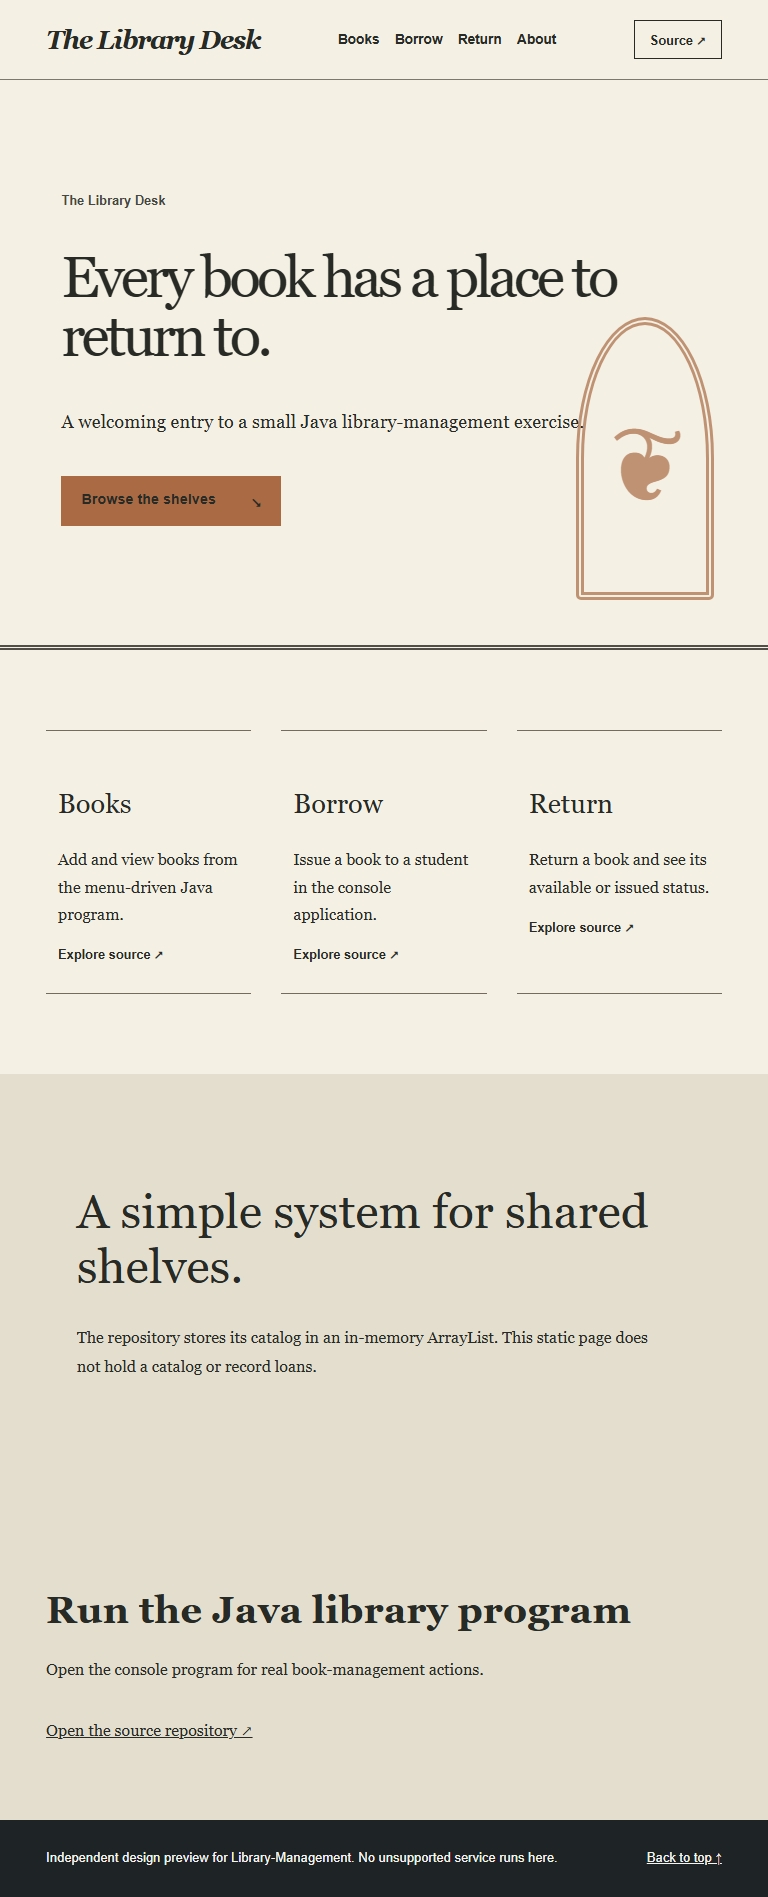
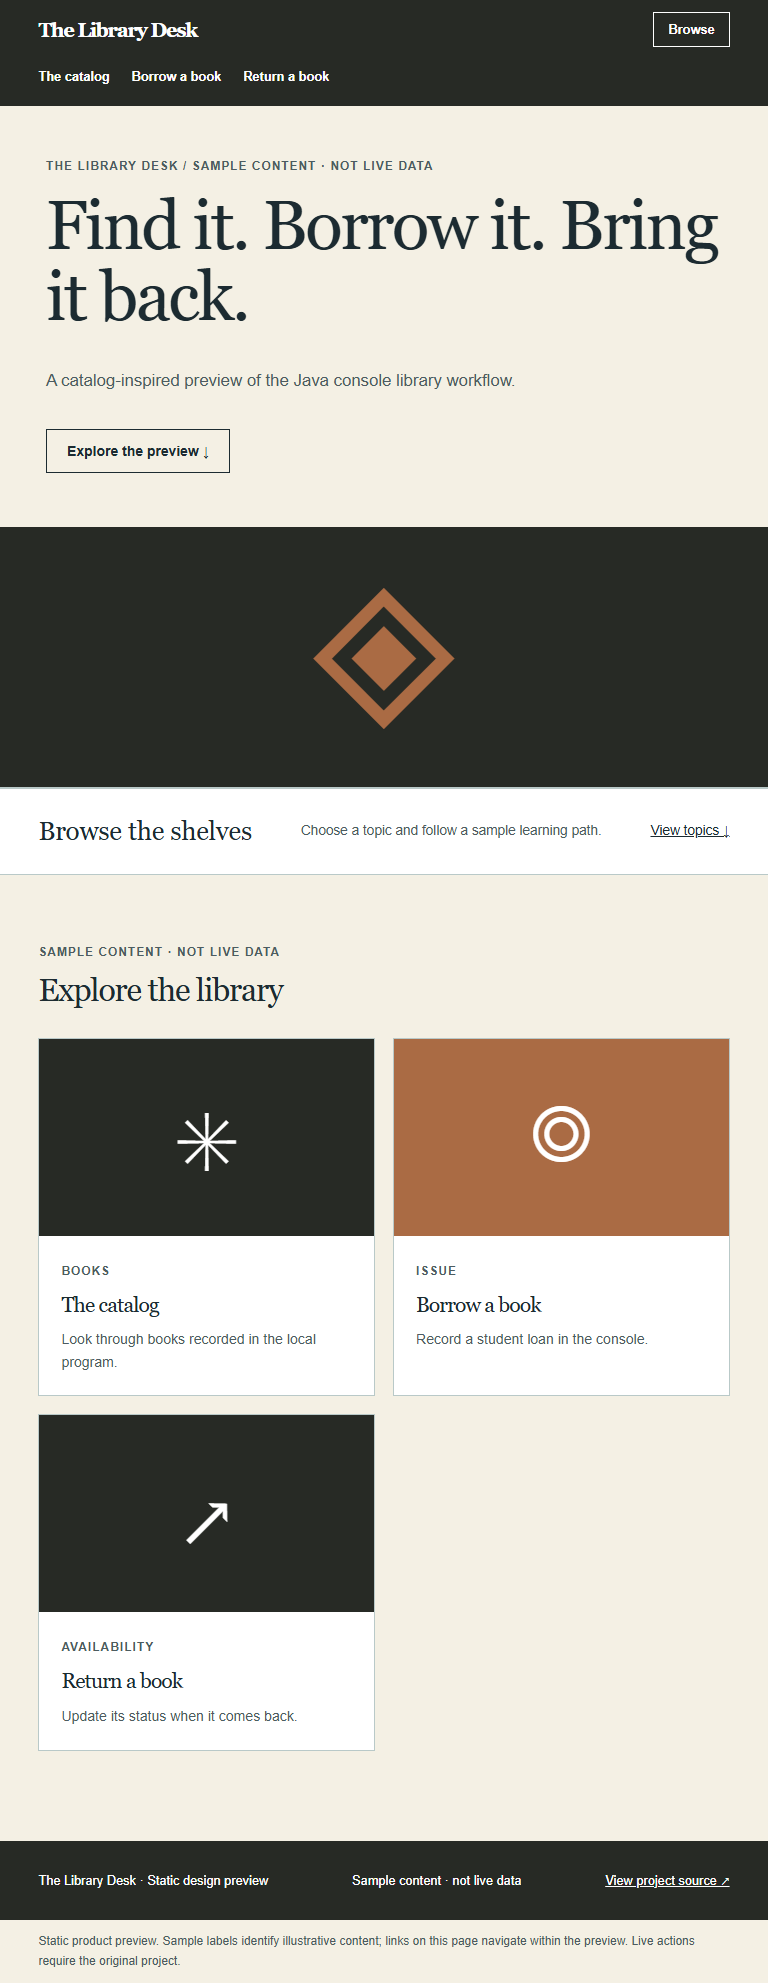
feat: show product-first static homepage preview

diff --git a/showcase-design/product.css b/showcase-design/product.css
@@ -1,0 +1,27 @@
+:root{--p-bg:#f4f0e4;--p-ink:#1c2b31;--p-accent:#aa6b44;--p-card:#ffffff;--p-muted:#4c5c61;--p-border:#b9c9c8;--p-head:#272a25;--p-head-ink:#ffffff;}
+
+/* Product-first preview. Preserve the original design's palette and assets. */
+body.product-page{background:var(--p-bg);color:var(--p-ink);font-family:Arial,'Segoe UI',sans-serif;line-height:1.5;margin:0}
+.product-page *{box-sizing:border-box}.product-page a{color:inherit}.product-page a:focus-visible{outline:3px solid var(--p-accent);outline-offset:4px}.product-page h1,.product-page h2,.product-page h3{overflow-wrap:anywhere;letter-spacing:-.035em}.product-page p{max-width:68ch}
+.p-skip{position:absolute;top:-90px;left:12px;background:var(--p-card);padding:10px;z-index:10}.p-skip:focus{top:10px}
+.p-nav{min-height:76px;display:flex;align-items:center;gap:24px;padding:12px 5%;background:var(--p-head);color:var(--p-head-ink)}
+.p-brand{text-decoration:none;font:bold clamp(1.25rem,2vw,1.9rem)/1.1 Georgia,serif;letter-spacing:-.06em;flex:0 0 auto}
+.p-nav nav{display:flex;gap:22px;margin-left:auto;overflow-x:auto;scrollbar-width:thin}.p-nav nav a,.p-nav-extra{font:600 .8rem Arial,sans-serif;text-decoration:none;white-space:nowrap}.p-nav nav a:hover,.p-nav-extra:hover{text-decoration:underline;text-underline-offset:4px}.p-nav-extra{border:1px solid currentColor;padding:9px 14px}
+.p-heading{display:grid;grid-template-columns:1.2fr .8fr;min-height:470px;align-items:stretch;border-bottom:1px solid var(--p-border)}.p-copy{padding:72px 7% 64px 9%;display:flex;flex-direction:column;justify-content:center}.p-overline,.p-item small,.p-section-title small,.p-work-head small,.p-newspaper .p-edition{font:700 .72rem Arial,sans-serif;text-transform:uppercase;letter-spacing:.11em;color:var(--p-muted)}
+.p-heading h1{font:normal clamp(3rem,5vw,5.6rem)/1.03 Georgia,serif;margin:18px 0}.p-copy>p{font-size:1.05rem;color:var(--p-muted);line-height:1.7}.p-action{align-self:flex-start;padding:13px 20px;border:1px solid var(--p-ink);text-decoration:none;margin-top:16px;font:700 .87rem Arial,sans-serif}.p-action:hover{background:var(--p-head);color:var(--p-head-ink)}
+.p-hero-image,.p-hero-graphic{min-height:340px;background:var(--p-head);display:grid;place-items:center;overflow:hidden}.p-hero-image img{width:100%;height:100%;max-height:560px;object-fit:cover}.p-hero-graphic span{color:var(--p-accent);font:normal clamp(11rem,25vw,27rem)/1 Georgia,serif}
+.p-newspaper{text-align:center;padding:34px 5% 25px;border-block:3px double var(--p-border)}.p-newspaper h1{font:normal clamp(3.5rem,8vw,8rem)/1 Georgia,serif;margin:14px 0;letter-spacing:-.06em}.p-newspaper p{margin:auto;color:var(--p-muted)}
+.p-front{display:grid;grid-template-columns:1.65fr .8fr;margin:36px 5%;border-block:1px solid var(--p-border)}.p-lead{padding:38px 5% 42px 0;border-right:1px solid var(--p-border)}.p-lead h2{font:normal clamp(2.8rem,5vw,5.5rem)/1.07 Georgia,serif;max-width:14ch;margin:20px 0}.p-lead p{color:var(--p-muted)}.p-front aside{padding:30px 0 25px 8%}.p-front aside>b{font-size:1rem}.p-front aside a{display:flex;gap:20px;padding:20px 0;border-bottom:1px solid var(--p-border);text-decoration:none}.p-front aside span{font-size:.8rem;color:var(--p-muted)}
+.p-shopbar{display:flex;justify-content:space-between;align-items:center;gap:22px;flex-wrap:wrap;padding:28px 5%;background:var(--p-card);border-block:1px solid var(--p-border)}.p-shopbar b{font:normal 1.6rem Georgia,serif}.p-shopbar span{font-size:.85rem;color:var(--p-muted)}.p-shopbar a{font-size:.85rem}
+.p-workspace{margin:42px 5% 30px;padding:30px;background:var(--p-card);border:1px solid var(--p-border)}.p-work-head{display:flex;justify-content:space-between;align-items:center;gap:20px}.p-work-head h2{font:normal clamp(1.7rem,3vw,2.8rem) Georgia,serif;margin:8px 0 25px}.p-chip{font-size:.72rem;padding:7px 10px;border:1px solid var(--p-border);border-radius:20px}.p-steps{display:grid;grid-template-columns:repeat(3,minmax(0,1fr));border:1px solid var(--p-border)}.p-steps a{padding:26px;border-right:1px solid var(--p-border);text-decoration:none;display:grid;gap:9px}.p-steps a:last-child{border-right:0}.p-steps a:hover{background:var(--p-bg)}.p-steps a>span{font-size:.75rem;color:var(--p-muted)}.p-steps a>b{font-size:1.2rem}.p-steps a>small{color:var(--p-muted)}.p-preview{margin-top:22px;min-height:116px;display:flex;align-items:center;gap:26px;padding:22px;background:var(--p-bg);border:1px dashed var(--p-border)}.p-preview-mark{font:2.3rem Consolas,monospace;color:var(--p-accent)}.p-preview p{margin:5px 0 0;color:var(--p-muted);font-size:.85rem}
+.p-collection{padding:64px 5% 90px}.p-section-title{display:flex;justify-content:space-between;gap:25px;align-items:end;margin-bottom:30px}.p-section-title h2{font:normal clamp(2rem,4vw,4rem)/1.1 Georgia,serif;margin:10px 0 0}.p-section-title p{font-size:.8rem;color:var(--p-muted);max-width:23rem;margin:0}.p-grid{display:grid;grid-template-columns:repeat(3,minmax(0,1fr));gap:18px}.p-item{border:1px solid var(--p-border);background:var(--p-card);min-width:0}.p-image{aspect-ratio:1.7;overflow:hidden;display:grid;place-items:center;background:var(--p-head)}.p-image img{width:100%;height:100%;object-fit:cover}.p-image>span{font:normal 5rem Georgia,serif;color:var(--p-accent)}.p-item:nth-child(2) .p-image{background:var(--p-accent)}.p-item:nth-child(2) .p-image span{color:var(--p-head)}.p-item-info{padding:22px}.p-item h3{font:normal clamp(1.3rem,2.2vw,2rem)/1.1 Georgia,serif;margin:12px 0}.p-item p{font-size:.88rem;color:var(--p-muted);line-height:1.6;margin:0}
+.product-news .p-grid,.product-news_bn .p-grid{grid-template-columns:1.3fr 1fr 1fr}.product-news .p-image,.product-news_bn .p-image{aspect-ratio:2.3;background:var(--p-head)}.product-news .p-item,.product-news_bn .p-item{border-width:0 0 1px 0;background:transparent}.product-news .p-item-info,.product-news_bn .p-item-info{padding-left:0}
+.product-store .p-image,.product-commerce .p-image{aspect-ratio:1.1}.product-events .p-item{border-top:4px solid var(--p-accent)}.product-game .p-image,.product-compiler .p-image,.product-notebook .p-image{background:var(--p-head);aspect-ratio:2.4}.product-portfolio .p-grid,.product-architecture .p-grid{gap:28px}.product-empty .p-collection{min-height:470px}
+.p-app-intro{padding:35px 5% 12px}.p-app-intro span{font:700 .7rem Arial,sans-serif;letter-spacing:.1em;text-transform:uppercase;color:var(--p-muted)}.p-app-intro h1{font:normal clamp(2rem,3.5vw,3.6rem)/1.12 Georgia,serif;margin:12px 0 8px}.p-app-intro p{font-size:.9rem;color:var(--p-muted);margin:0}.p-app-intro+.p-workspace{margin-top:14px}.p-story-label{display:inline-block;margin-top:20px;font-size:.8rem;border-top:1px solid var(--p-border);padding-top:12px}
+.product-events .p-heading,.product-store .p-heading,.product-commerce .p-heading{min-height:320px;grid-template-columns:1.25fr .75fr}.product-events .p-copy,.product-store .p-copy,.product-commerce .p-copy{padding-block:38px}.product-events .p-heading h1,.product-store .p-heading h1,.product-commerce .p-heading h1{font-size:clamp(2.7rem,4vw,4.7rem)}
+.p-image>span{color:var(--p-head-ink)}.p-item:nth-child(2) .p-image span{color:var(--p-head-ink)}.product-news .p-grid,.product-news_bn .p-grid{grid-template-columns:1fr 1fr}.product-news .p-item,.product-news_bn .p-item{border-width:1px 0 0 0;background:transparent}.product-news .p-item-info,.product-news_bn .p-item-info{padding:24px 0}.product-news .p-item h3,.product-news_bn .p-item h3{font-size:clamp(1.7rem,3vw,3rem)}
+.p-brand,.p-heading h1,.p-app-intro h1,.p-newspaper h1,.p-lead h2,.p-work-head h2,.p-section-title h2,.p-item h3{font-family:var(--display,var(--serif,var(--font,Georgia,serif)))}
+.p-footer{padding:30px 5%;display:flex;justify-content:space-between;flex-wrap:wrap;gap:16px;background:var(--p-head);color:var(--p-head-ink);font-size:.8rem}.p-footer a{color:inherit}.p-disclosure{max-width:none!important;padding:11px 5%;margin:0;font-size:.75rem;background:var(--p-bg);color:var(--p-muted)}
+@media(max-width:800px){.p-nav{flex-wrap:wrap;gap:12px}.p-nav nav{order:3;width:100%;padding:10px 0;margin-left:0}.p-nav-extra{margin-left:auto}.p-heading{display:block;min-height:0}.p-copy{padding:54px 6%}.p-heading h1{font-size:clamp(2.6rem,9vw,5rem)}.p-hero-image,.p-hero-graphic{height:260px;min-height:260px}.p-hero-graphic span{font-size:13rem}.p-front{display:block}.p-lead{border-right:0;border-bottom:1px solid var(--p-border)}.p-front aside{padding:25px 0}.p-grid{grid-template-columns:repeat(2,minmax(0,1fr))!important}.p-steps{grid-template-columns:1fr}.p-steps a{border-bottom:1px solid var(--p-border);border-right:0!important}.p-steps a:last-child{border-bottom:0}.p-section-title{display:block}.p-section-title p{margin-top:15px}.p-workspace{padding:20px}}
+@media(max-width:550px){.p-grid{grid-template-columns:1fr!important}.p-collection{padding-top:45px}.p-section-title h2{font-size:2.2rem}.p-work-head{align-items:flex-start}.p-chip{max-width:115px;text-align:center}.p-front{margin-top:18px}.p-newspaper h1{font-size:3rem}.p-footer{display:block}.p-footer>*{display:block;margin-bottom:9px}}
+@media(prefers-reduced-motion:reduce){html{scroll-behavior:auto}}

diff --git a/showcase-design/index.html b/showcase-design/index.html
@@ -1,1 +1,1 @@
-<!doctype html><html lang="en"><head><meta charset="utf-8"><meta name="viewport" content="width=device-width,initial-scale=1"><meta name="description" content="A welcoming entry to a small Java library-management exercise."><title>The Library Desk — Every book has a place to return to.</title><link rel="stylesheet" href="styles.css"></head><body><a class="skip" href="#main">Skip to content</a><header class="mast" id="top"><a class="brand" href="#top">The Library Desk</a><nav aria-label="Main navigation"><a href="#topic-0">Books</a><a href="#topic-1">Borrow</a><a href="#topic-2">Return</a><a href="#about">About</a></nav><a class="top-action" href="https://github.com/Athaher-Sayem/Library-Management/tree/Shocase_design" target="_blank" rel="noopener noreferrer">Source ↗</a></header><main id="main"><section class="hero"><div class="hero-copy"><span class="intro-tag">The Library Desk</span><h1>Every book has a place to return to.</h1><p>A welcoming entry to a small Java library-management exercise.</p><a class="cta" href="#browse">Browse the shelves <span aria-hidden="true">↘</span></a></div><div class="hero-art" aria-label="Abstract decorative illustration"></div></section><section id="browse" class="topics" aria-label="Explore topics"><a id="topic-0" href="https://github.com/Athaher-Sayem/Library-Management/blob/Shocase_design/README.md" target="_blank" rel="noopener noreferrer"><h3>Books</h3><p>Add and view books from the menu-driven Java program.</p><span>Explore source ↗</span></a><a id="topic-1" href="https://github.com/Athaher-Sayem/Library-Management/blob/Shocase_design/README.md" target="_blank" rel="noopener noreferrer"><h3>Borrow</h3><p>Issue a book to a student in the console application.</p><span>Explore source ↗</span></a><a id="topic-2" href="https://github.com/Athaher-Sayem/Library-Management/blob/Shocase_design/README.md" target="_blank" rel="noopener noreferrer"><h3>Return</h3><p>Return a book and see its available or issued status.</p><span>Explore source ↗</span></a></section><section id="about" class="feature"><h2>A simple system for shared shelves.</h2><p>The repository stores its catalog in an in-memory ArrayList. This static page does not hold a catalog or record loans.</p></section><section class="source"><h2>Run the Java library program</h2><p>Open the console program for real book-management actions.</p><a href="https://github.com/Athaher-Sayem/Library-Management/tree/Shocase_design" target="_blank" rel="noopener noreferrer">Open the source repository ↗</a></section></main><footer class="footer"><span>Independent design preview for Library-Management. No unsupported service runs here.</span><a href="#top">Back to top ↑</a></footer></body></html>
+<!doctype html><html lang="en"><head><meta charset="utf-8"><meta name="viewport" content="width=device-width,initial-scale=1"><meta name="description" content="A catalog-inspired preview of the Java console library workflow."><title>The Library Desk — Find it. Borrow it. Bring it back.</title><link rel="stylesheet" href="styles.css"><link rel="stylesheet" href="product.css"></head><body class="product-page product-library"><a class="p-skip" href="#main">Skip to content</a><header class="p-nav"><a class="p-brand" href="#home">The Library Desk</a><nav aria-label="Sections"><a href="#item-0">The catalog</a><a href="#item-1">Borrow a book</a><a href="#item-2">Return a book</a></nav><a class="p-nav-extra" href="#items">Browse</a></header><main id="main"><section class="p-heading" id="home"><div class="p-copy"><span class="p-overline">The Library Desk / Sample content · not live data</span><h1>Find it. Borrow it. Bring it back.</h1><p>A catalog-inspired preview of the Java console library workflow.</p><a class="p-action" href="#items">Explore the preview <span aria-hidden="true">↓</span></a></div><div class="p-hero-graphic" aria-hidden="true"><span>◈</span></div></section><div id="workspace"><section class="p-shopbar"><b>Browse the shelves</b><span>Choose a topic and follow a sample learning path.</span><a href="#items">View topics ↓</a></section></div><section id="items" class="p-collection"><div class="p-section-title"><div><small>Sample content · not live data</small><h2>Explore the library</h2></div></div><div class="p-grid library"><article class="p-item" id="item-0"><div class="p-image library"><span aria-hidden="true">✳</span></div><div class="p-item-info"><small>Books</small><h3>The catalog</h3><p>Look through books recorded in the local program.</p></div></article><article class="p-item" id="item-1"><div class="p-image library"><span aria-hidden="true">◎</span></div><div class="p-item-info"><small>Issue</small><h3>Borrow a book</h3><p>Record a student loan in the console.</p></div></article><article class="p-item" id="item-2"><div class="p-image library"><span aria-hidden="true">↗</span></div><div class="p-item-info"><small>Availability</small><h3>Return a book</h3><p>Update its status when it comes back.</p></div></article></div></section></main><footer class="p-footer"><span>The Library Desk · Static design preview</span><span>Sample content · not live data</span><a href="https://github.com/Athaher-Sayem/Library-Management/tree/Shocase_design" target="_blank" rel="noopener noreferrer">View project source ↗</a></footer><p class="p-disclosure">Static product preview. Sample labels identify illustrative content; links on this page navigate within the preview. Live actions require the original project.</p></body></html>
